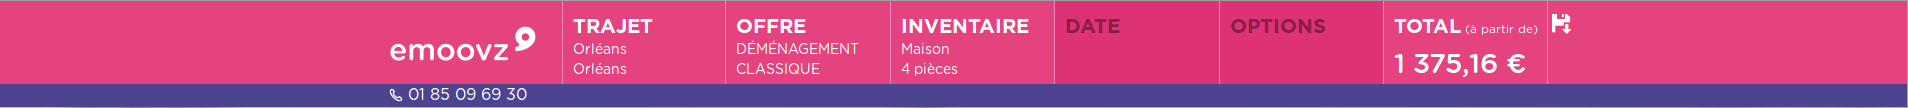
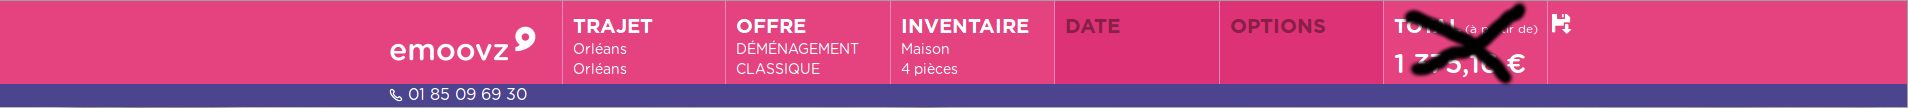
ras l'ouf

Changed region(s): [[0.7112, 0.0278, 0.804, 0.7778]]

diff --git a/web/assets/js/dave.js b/web/assets/js/dave.js
@@ -2,23 +2,37 @@
 
 // counts the number of credits
     function clickCounter() {
-      if (typeof(Storage) !== "undefined") {
-
-        //reset the counter when it reaches 100 and play a sound
-        if (sessionStorage.clickcount >= 99) {
-          sessionStorage.clickcount = 0;
-        }
-        //increase the counter, stop the current sound and start a new one
-        else if (sessionStorage.clickcount) {
-          sessionStorage.clickcount = Number(sessionStorage.clickcount) + 1;
-        }
-        // set the first credit
-        else {
-          sessionStorage.clickcount = 1;
-        }
-        // change INSERT COIN. to CREDITS
-        console.log(sessionStorage);
-      }
+    //   if (typeof(Storage) !== "undefined") {
+      //
+    //     //reset the counter when it reaches 100 and play a sound
+    //     if (sessionStorage.clickcount >= 99) {
+    //       sessionStorage.clickcount = 0;
+    //     }
+    //     //increase the counter, stop the current sound and start a new one
+    //     else if (sessionStorage.clickcount) {
+    //       sessionStorage.clickcount = Number(sessionStorage.clickcount) + 1;
+    //     }
+    //     // set the first credit
+    //     else {
+    //       sessionStorage.clickcount = 1;
+    //     }
+    //     // change INSERT COIN. to CREDITS
+    //     console.log(sessionStorage);
+    //   }
+        $('.coincoin').stop().css('margin-top','7vh').animate({ 'marginTop': '100vh' }, 250);
+        document.getElementByClass("amount").innerHTML =  document.getElementByClass("amount").innerHTML - 2;
     };
 
-// $('.list-element-you-know')
+$('.list-element-you-know').click(function() {
+    alert("Y a quelqu'un ?")
+    $('.coincoin').animate({ 'marginTop': '50vh' }, 1000);
+});
+
+//If checked
+var $newprice = $("#totalprice").text(function(i,v){
+    return parseInt(v,10) + 299;
+});
+//If NOT checked
+var $newprice = $("#totalprice").text(function(i,v){
+    return parseInt(v,10) - 299;
+});

diff --git a/web/assets/css/stylesheet.css b/web/assets/css/stylesheet.css
@@ -64,10 +64,17 @@ li {
     z-index: 205;
 }
 
+.budget {
+    position: fixed;
+    margin-left: 88%;
+    z-index: 210;
+    margin-top: 4vh;
+    font-family: 'Bungee', cursive;
+}
 .coincoin {
     position: fixed;
     margin-left: 89%;
-    margin-top: 90vh;
+    margin-top: 7vh;
 }
 
 a.add-room {
